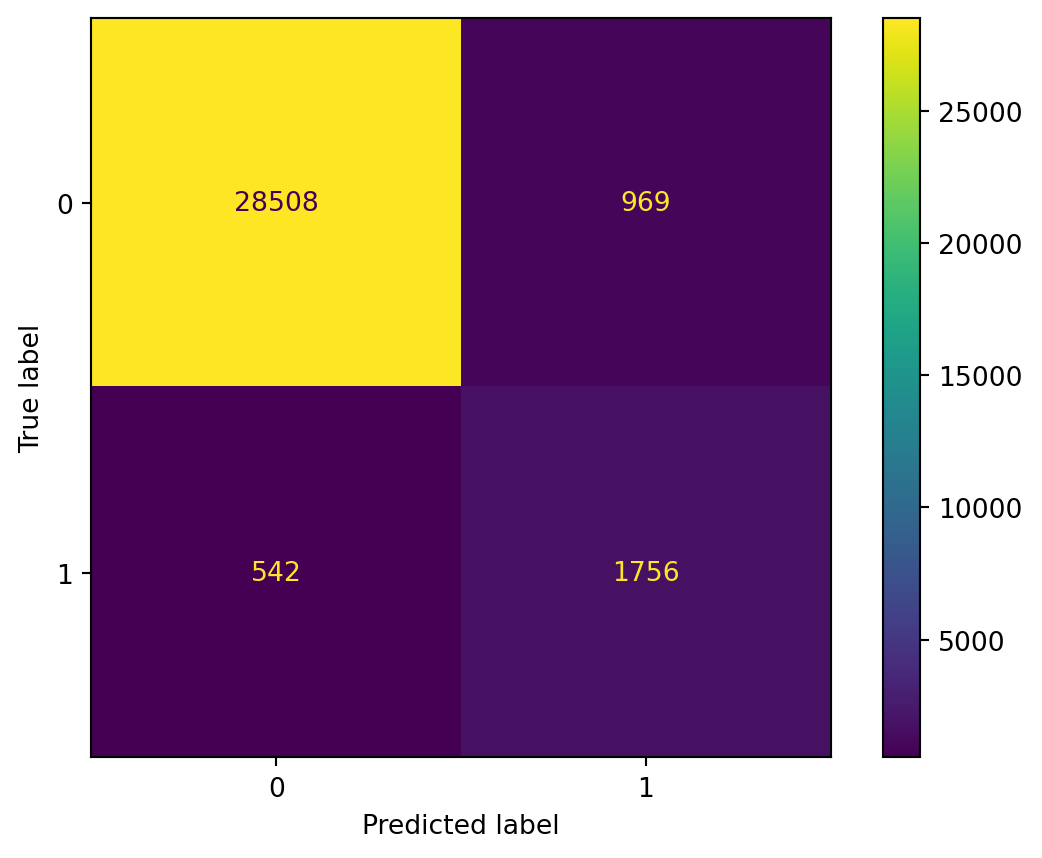
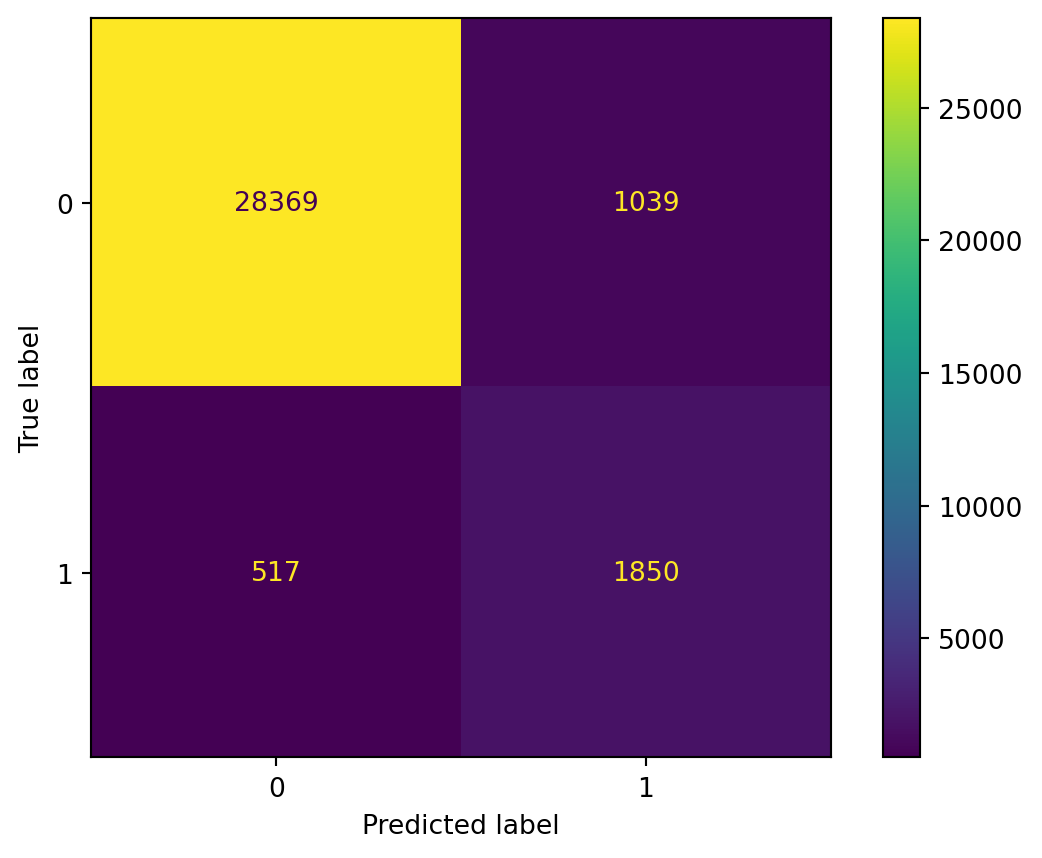
update_22

diff --git a/docs/LABORATORIO_2.html b/docs/LABORATORIO_2.html
@@ -218,7 +218,7 @@ pre > code.sourceCode > span > a:first-child::before { text-decoration: underlin
 
 <section id="importar-librerías" class="level1">
 <h1>Importar librerías</h1>
-<div id="5126de17" class="cell" data-execution_count="1">
+<div id="c7c6a34b" class="cell" data-execution_count="1">
 <div class="code-copy-outer-scaffold"><div class="sourceCode cell-code" id="cb1"><pre class="sourceCode python code-with-copy"><code class="sourceCode python"><span id="cb1-1"><a href="#cb1-1" aria-hidden="true" tabindex="-1"></a><span class="co"># ====== Importar librerías ======</span></span>
 <span id="cb1-2"><a href="#cb1-2" aria-hidden="true" tabindex="-1"></a><span class="im">import</span> re</span>
 <span id="cb1-3"><a href="#cb1-3" aria-hidden="true" tabindex="-1"></a><span class="im">import</span> unicodedata</span>
@@ -249,7 +249,7 @@ pre > code.sourceCode > span > a:first-child::before { text-decoration: underlin
 </section>
 <section id="cargar-data" class="level1">
 <h1>Cargar data</h1>
-<div id="8ede7a8e" class="cell" data-execution_count="2">
+<div id="8d2bc767" class="cell" data-execution_count="2">
 <div class="code-copy-outer-scaffold"><div class="sourceCode cell-code" id="cb2"><pre class="sourceCode python code-with-copy"><code class="sourceCode python"><span id="cb2-1"><a href="#cb2-1" aria-hidden="true" tabindex="-1"></a>tweets <span class="op">=</span> pd.read_csv(<span class="st">"data/tweets_totales_con_sentimiento_ml.csv"</span>, encoding<span class="op">=</span><span class="st">"utf-8"</span>)</span>
 <span id="cb2-2"><a href="#cb2-2" aria-hidden="true" tabindex="-1"></a></span>
 <span id="cb2-3"><a href="#cb2-3" aria-hidden="true" tabindex="-1"></a><span class="co"># Vista rápida</span></span>
@@ -434,11 +434,11 @@ dtype: object</code></pre>
 <p>Entender la estructura del dataset nos da una mejor idea de con que estamos lidiando</p>
 <section id="porcentaje-de-missing-values-por-columna" class="level3">
 <h3 class="anchored" data-anchor-id="porcentaje-de-missing-values-por-columna">Porcentaje de Missing Values por Columna</h3>
-<div id="43ff0990" class="cell" data-execution_count="3">
+<div id="404e19e5" class="cell" data-execution_count="3">
 <div class="code-copy-outer-scaffold"><div class="sourceCode cell-code" id="cb4"><pre class="sourceCode python code-with-copy"><code class="sourceCode python"><span id="cb4-1"><a href="#cb4-1" aria-hidden="true" tabindex="-1"></a><span class="co"># ====== Porcentaje de Missing Values por Columna ======</span></span>
 <span id="cb4-2"><a href="#cb4-2" aria-hidden="true" tabindex="-1"></a>nan_percent <span class="op">=</span> tweets.isna().mean().sort_values(ascending<span class="op">=</span><span class="va">False</span>).mul(<span class="dv">100</span>).<span class="bu">round</span>(<span class="dv">2</span>)</span>
 <span id="cb4-3"><a href="#cb4-3" aria-hidden="true" tabindex="-1"></a>nan_percent.head(<span class="dv">20</span>)</span></code></pre></div><button title="Copy to Clipboard" class="code-copy-button"><i class="bi"></i></button></div>
-<div class="cell-output cell-output-display" data-execution_count="26">
+<div class="cell-output cell-output-display" data-execution_count="50">
 <pre><code>hashtags            92.19
 replyTo              0.54
 mentions             0.22
@@ -465,7 +465,7 @@ dtype: float64</code></pre>
 </section>
 <section id="función-de-limpieza" class="level2">
 <h2 class="anchored" data-anchor-id="función-de-limpieza">Función de limpieza</h2>
-<div id="566875ac" class="cell" data-execution_count="4">
+<div id="a87baf46" class="cell" data-execution_count="4">
 <div class="code-copy-outer-scaffold"><div class="sourceCode cell-code" id="cb6"><pre class="sourceCode python code-with-copy"><code class="sourceCode python"><span id="cb6-1"><a href="#cb6-1" aria-hidden="true" tabindex="-1"></a><span class="kw">def</span> normalize_text(text: <span class="bu">str</span>) <span class="op">-&gt;</span> <span class="bu">str</span>:</span>
 <span id="cb6-2"><a href="#cb6-2" aria-hidden="true" tabindex="-1"></a>    text <span class="op">=</span> <span class="bu">str</span>(text)</span>
 <span id="cb6-3"><a href="#cb6-3" aria-hidden="true" tabindex="-1"></a>    text <span class="op">=</span> text.lower().strip()</span>
@@ -486,7 +486,7 @@ dtype: float64</code></pre>
 <span id="cb6-18"><a href="#cb6-18" aria-hidden="true" tabindex="-1"></a>tweets[<span class="st">"text_len"</span>]      <span class="op">=</span> tweets[<span class="st">"clean_text"</span>].<span class="bu">str</span>.<span class="bu">len</span>()</span>
 <span id="cb6-19"><a href="#cb6-19" aria-hidden="true" tabindex="-1"></a></span>
 <span id="cb6-20"><a href="#cb6-20" aria-hidden="true" tabindex="-1"></a>tweets[[<span class="st">"content"</span>,<span class="st">"clean_text"</span>,<span class="st">"num_urls"</span>,<span class="st">"num_mentions"</span>,<span class="st">"num_hashtags"</span>,<span class="st">"text_len"</span>]].head(<span class="dv">5</span>)</span></code></pre></div><button title="Copy to Clipboard" class="code-copy-button"><i class="bi"></i></button></div>
-<div class="cell-output cell-output-display" data-execution_count="27">
+<div class="cell-output cell-output-display" data-execution_count="51">
 <div>
 
 
@@ -557,7 +557,7 @@ dtype: float64</code></pre>
 </section>
 <section id="palabras-que-demuestran-apoyo-o-disgusto" class="level2">
 <h2 class="anchored" data-anchor-id="palabras-que-demuestran-apoyo-o-disgusto">Palabras que demuestran apoyo o disgusto</h2>
-<div id="86edbf68" class="cell" data-execution_count="5">
+<div id="7f39aaec" class="cell" data-execution_count="5">
 <div class="code-copy-outer-scaffold"><div class="sourceCode cell-code" id="cb7"><pre class="sourceCode python code-with-copy"><code class="sourceCode python"><span id="cb7-1"><a href="#cb7-1" aria-hidden="true" tabindex="-1"></a>lex_neg <span class="op">=</span> {</span>
 <span id="cb7-2"><a href="#cb7-2" aria-hidden="true" tabindex="-1"></a>    <span class="st">"asco"</span>,<span class="st">"basura"</span>,<span class="st">"corrupto"</span>,<span class="st">"estupido"</span>,<span class="st">"idiota"</span>,<span class="st">"ladron"</span>,<span class="st">"mentiroso"</span>,<span class="st">"odiar"</span>,<span class="st">"odio"</span>,</span>
 <span id="cb7-3"><a href="#cb7-3" aria-hidden="true" tabindex="-1"></a>    <span class="st">"imbecil"</span>,<span class="st">"tonto"</span>,<span class="st">"vomito"</span>,<span class="st">"repugnante"</span>,<span class="st">"asqueroso"</span>,<span class="st">"miserable"</span></span>
@@ -577,7 +577,7 @@ dtype: float64</code></pre>
 <span id="cb7-17"><a href="#cb7-17" aria-hidden="true" tabindex="-1"></a>tweets[<span class="st">"pos_count"</span>] <span class="op">=</span> tweets[<span class="st">"clean_text"</span>].<span class="bu">apply</span>(<span class="kw">lambda</span> t: count_lexicon_hits(t, lex_pos))</span>
 <span id="cb7-18"><a href="#cb7-18" aria-hidden="true" tabindex="-1"></a></span>
 <span id="cb7-19"><a href="#cb7-19" aria-hidden="true" tabindex="-1"></a>tweets[[<span class="st">"clean_text"</span>,<span class="st">"neg_count"</span>,<span class="st">"pos_count"</span>]].head(<span class="dv">5</span>)</span></code></pre></div><button title="Copy to Clipboard" class="code-copy-button"><i class="bi"></i></button></div>
-<div class="cell-output cell-output-display" data-execution_count="28">
+<div class="cell-output cell-output-display" data-execution_count="52">
 <div>
 
 
@@ -630,7 +630,7 @@ dtype: float64</code></pre>
 </section>
 <section id="creación-de-etiquetas-con-labelencoder" class="level2">
 <h2 class="anchored" data-anchor-id="creación-de-etiquetas-con-labelencoder">Creación de etiquetas con LabelEncoder</h2>
-<div id="a00a76ef" class="cell" data-execution_count="6">
+<div id="ce7e2d1c" class="cell" data-execution_count="6">
 <div class="code-copy-outer-scaffold"><div class="sourceCode cell-code" id="cb8"><pre class="sourceCode python code-with-copy"><code class="sourceCode python"><span id="cb8-1"><a href="#cb8-1" aria-hidden="true" tabindex="-1"></a><span class="co"># Columnas esperadas, se crean como 0 para evitar errores</span></span>
 <span id="cb8-2"><a href="#cb8-2" aria-hidden="true" tabindex="-1"></a>cols_flags <span class="op">=</span> [<span class="st">"isReply"</span>, <span class="st">"authorVerified"</span>, <span class="st">"has_profile_picture"</span>]</span>
 <span id="cb8-3"><a href="#cb8-3" aria-hidden="true" tabindex="-1"></a><span class="cf">for</span> c <span class="kw">in</span> cols_flags:</span>
@@ -644,7 +644,7 @@ dtype: float64</code></pre>
 <span id="cb8-11"><a href="#cb8-11" aria-hidden="true" tabindex="-1"></a>    tweets[<span class="ss">f"</span><span class="sc">{</span>c<span class="sc">}</span><span class="ss">_encoded"</span>] <span class="op">=</span> le.fit_transform(tweets[c].astype(<span class="bu">str</span>))</span>
 <span id="cb8-12"><a href="#cb8-12" aria-hidden="true" tabindex="-1"></a></span>
 <span id="cb8-13"><a href="#cb8-13" aria-hidden="true" tabindex="-1"></a>tweets[[<span class="ss">f"</span><span class="sc">{</span>c<span class="sc">}</span><span class="ss">_encoded"</span> <span class="cf">for</span> c <span class="kw">in</span> cols_flags]].head(<span class="dv">5</span>)</span></code></pre></div><button title="Copy to Clipboard" class="code-copy-button"><i class="bi"></i></button></div>
-<div class="cell-output cell-output-display" data-execution_count="29">
+<div class="cell-output cell-output-display" data-execution_count="53">
 <div>
 
 
@@ -697,7 +697,7 @@ dtype: float64</code></pre>
 </section>
 <section id="construcción-de-variable-target-basada-en-caractisticas-de-usuarios" class="level2">
 <h2 class="anchored" data-anchor-id="construcción-de-variable-target-basada-en-caractisticas-de-usuarios">Construcción de variable target basada en caractisticas de usuarios</h2>
-<div id="b90e258f" class="cell" data-execution_count="7">
+<div id="68801a40" class="cell" data-execution_count="7">
 <div class="code-copy-outer-scaffold"><div class="sourceCode cell-code" id="cb9"><pre class="sourceCode python code-with-copy"><code class="sourceCode python"><span id="cb9-1"><a href="#cb9-1" aria-hidden="true" tabindex="-1"></a><span class="co"># Asegurar columnas numéricas, si no existen, se crean con 0</span></span>
 <span id="cb9-2"><a href="#cb9-2" aria-hidden="true" tabindex="-1"></a>num_needed <span class="op">=</span> [<span class="st">"account_age_days"</span>, <span class="st">"time_response"</span>]</span>
 <span id="cb9-3"><a href="#cb9-3" aria-hidden="true" tabindex="-1"></a><span class="cf">for</span> c <span class="kw">in</span> num_needed:</span>
@@ -736,7 +736,7 @@ Name: count, dtype: int64</code></pre>
 </section>
 <section id="vectorización-de-texto" class="level2">
 <h2 class="anchored" data-anchor-id="vectorización-de-texto">Vectorización de texto</h2>
-<div id="c92ae3cf" class="cell" data-execution_count="8">
+<div id="7c209cfa" class="cell" data-execution_count="8">
 <div class="code-copy-outer-scaffold"><div class="sourceCode cell-code" id="cb11"><pre class="sourceCode python code-with-copy"><code class="sourceCode python"><span id="cb11-1"><a href="#cb11-1" aria-hidden="true" tabindex="-1"></a><span class="co"># Vectorizer sobre 'clean_text' (español)</span></span>
 <span id="cb11-2"><a href="#cb11-2" aria-hidden="true" tabindex="-1"></a><span class="co"># vectorizer = CountVectorizer(stop_words=stop_es) </span></span>
 <span id="cb11-3"><a href="#cb11-3" aria-hidden="true" tabindex="-1"></a>vectorizer <span class="op">=</span> TfidfVectorizer(stop_words<span class="op">=</span>stop_es)</span>
@@ -756,13 +756,13 @@ Ejemplo de vocab: ['aa' 'aaa' 'aaaa' 'aaaaa' 'aaaaaa' 'aaaaaaa' 'aaaaaaaa' 'aaaa
 </section>
 <section id="one-hot-encoder-para-variables-categoricas-método-de-autodetección" class="level2">
 <h2 class="anchored" data-anchor-id="one-hot-encoder-para-variables-categoricas-método-de-autodetección">One hot encoder para variables categoricas (método de autodetección)</h2>
-<div id="5915142e" class="cell" data-execution_count="9">
+<div id="4ff5b842" class="cell" data-execution_count="9">
 <div class="code-copy-outer-scaffold"><div class="sourceCode cell-code" id="cb13"><pre class="sourceCode python code-with-copy"><code class="sourceCode python"><span id="cb13-1"><a href="#cb13-1" aria-hidden="true" tabindex="-1"></a><span class="co"># Detectar automáticamente columnas object para One-Hot (excluyendo 'content'/'clean_text')</span></span>
 <span id="cb13-2"><a href="#cb13-2" aria-hidden="true" tabindex="-1"></a>obj_cols <span class="op">=</span> [c <span class="cf">for</span> c <span class="kw">in</span> tweets.select_dtypes(include<span class="op">=</span>[<span class="st">"object"</span>]).columns</span>
 <span id="cb13-3"><a href="#cb13-3" aria-hidden="true" tabindex="-1"></a>            <span class="cf">if</span> c <span class="kw">not</span> <span class="kw">in</span> {<span class="st">"content"</span>,<span class="st">"clean_text"</span>}]</span>
 <span id="cb13-4"><a href="#cb13-4" aria-hidden="true" tabindex="-1"></a></span>
 <span id="cb13-5"><a href="#cb13-5" aria-hidden="true" tabindex="-1"></a>obj_cols[:<span class="dv">10</span>]</span></code></pre></div><button title="Copy to Clipboard" class="code-copy-button"><i class="bi"></i></button></div>
-<div class="cell-output cell-output-display" data-execution_count="32">
+<div class="cell-output cell-output-display" data-execution_count="56">
 <pre><code>['tweetUrl',
  'replyTo',
  'createdAt',
@@ -778,7 +778,7 @@ Ejemplo de vocab: ['aa' 'aaa' 'aaaa' 'aaaaa' 'aaaaaa' 'aaaaaaa' 'aaaaaaaa' 'aaaa
 </section>
 <section id="ensamble-númericas-label-ecoder-categóticas-one-hot-encoder-text-columntransformer" class="level2">
 <h2 class="anchored" data-anchor-id="ensamble-númericas-label-ecoder-categóticas-one-hot-encoder-text-columntransformer">Ensamble: númericas (Label Ecoder) + categóticas (One-hot-encoder) + text (columntransformer)</h2>
-<div id="ded0da99" class="cell" data-execution_count="10">
+<div id="ac7b54ca" class="cell" data-execution_count="10">
 <div class="code-copy-outer-scaffold"><div class="sourceCode cell-code" id="cb15"><pre class="sourceCode python code-with-copy"><code class="sourceCode python"><span id="cb15-1"><a href="#cb15-1" aria-hidden="true" tabindex="-1"></a><span class="co"># Numéricas explícitas (puedes añadir/quitar)</span></span>
 <span id="cb15-2"><a href="#cb15-2" aria-hidden="true" tabindex="-1"></a>num_cols <span class="op">=</span> [</span>
 <span id="cb15-3"><a href="#cb15-3" aria-hidden="true" tabindex="-1"></a>    <span class="st">"account_age_days"</span>,<span class="st">"time_response"</span>,<span class="st">"num_urls"</span>,<span class="st">"num_mentions"</span>,<span class="st">"num_hashtags"</span>,<span class="st">"text_len"</span>,</span>
@@ -821,47 +821,37 @@ Ejemplo de vocab: ['aa' 'aaa' 'aaaa' 'aaaaa' 'aaaaaa' 'aaaaaaa' 'aaaaaaaa' 'aaaa
 <section id="split-división-entrenamiento-y-evaluación" class="level2">
 <h2 class="anchored" data-anchor-id="split-división-entrenamiento-y-evaluación">Split (división), entrenamiento y evaluación</h2>
 <p>Aprende de los tweets (vocabulario) y del ser caso elimina las stop-words</p>
-<div id="b4ac6f15" class="cell" data-execution_count="11">
-<div class="code-copy-outer-scaffold"><div class="sourceCode cell-code" id="cb17"><pre class="sourceCode python code-with-copy"><code class="sourceCode python"><span id="cb17-1"><a href="#cb17-1" aria-hidden="true" tabindex="-1"></a><span class="co"># Si hay 1 sola clase, relajamos umbral de bots para forzar 2 clases (safeguard)</span></span>
-<span id="cb17-2"><a href="#cb17-2" aria-hidden="true" tabindex="-1"></a><span class="cf">if</span> y.nunique() <span class="op">&lt;</span> <span class="dv">2</span>:</span>
-<span id="cb17-3"><a href="#cb17-3" aria-hidden="true" tabindex="-1"></a>    <span class="bu">print</span>(<span class="st">" !!! 'bots' tiene una sola clase con el umbral actual. Bajando el umbral a &gt;=2 señales."</span>)</span>
-<span id="cb17-4"><a href="#cb17-4" aria-hidden="true" tabindex="-1"></a>    tweets[<span class="st">"bots"</span>] <span class="op">=</span> (score <span class="op">&gt;=</span> <span class="dv">2</span>).astype(<span class="bu">int</span>)</span>
-<span id="cb17-5"><a href="#cb17-5" aria-hidden="true" tabindex="-1"></a>    y <span class="op">=</span> tweets[<span class="st">"bots"</span>].astype(<span class="bu">int</span>)</span>
-<span id="cb17-6"><a href="#cb17-6" aria-hidden="true" tabindex="-1"></a>    <span class="bu">print</span>(<span class="st">"Nuevas clases en y:"</span>, <span class="bu">dict</span>(y.value_counts()))</span>
+<div id="9888f952" class="cell" data-execution_count="11">
+<div class="code-copy-outer-scaffold"><div class="sourceCode cell-code" id="cb17"><pre class="sourceCode python code-with-copy"><code class="sourceCode python"><span id="cb17-1"><a href="#cb17-1" aria-hidden="true" tabindex="-1"></a>X_train, X_test, y_train, y_test <span class="op">=</span> train_test_split(</span>
+<span id="cb17-2"><a href="#cb17-2" aria-hidden="true" tabindex="-1"></a>    X, y, test_size<span class="op">=</span><span class="fl">0.2</span>, random_state<span class="op">=</span><span class="dv">42</span></span>
+<span id="cb17-3"><a href="#cb17-3" aria-hidden="true" tabindex="-1"></a>)</span>
+<span id="cb17-4"><a href="#cb17-4" aria-hidden="true" tabindex="-1"></a></span>
+<span id="cb17-5"><a href="#cb17-5" aria-hidden="true" tabindex="-1"></a>pipe.fit(X_train, y_train)</span>
+<span id="cb17-6"><a href="#cb17-6" aria-hidden="true" tabindex="-1"></a>y_pred <span class="op">=</span> pipe.predict(X_test)</span>
 <span id="cb17-7"><a href="#cb17-7" aria-hidden="true" tabindex="-1"></a></span>
-<span id="cb17-8"><a href="#cb17-8" aria-hidden="true" tabindex="-1"></a><span class="co"># Estratificar solo si hay 2 clases</span></span>
-<span id="cb17-9"><a href="#cb17-9" aria-hidden="true" tabindex="-1"></a>stratify_opt <span class="op">=</span> y <span class="cf">if</span> y.nunique() <span class="op">&gt;</span> <span class="dv">1</span> <span class="cf">else</span> <span class="va">None</span></span>
-<span id="cb17-10"><a href="#cb17-10" aria-hidden="true" tabindex="-1"></a></span>
-<span id="cb17-11"><a href="#cb17-11" aria-hidden="true" tabindex="-1"></a>X_train, X_test, y_train, y_test <span class="op">=</span> train_test_split(</span>
-<span id="cb17-12"><a href="#cb17-12" aria-hidden="true" tabindex="-1"></a>    X, y, test_size<span class="op">=</span><span class="fl">0.2</span>, random_state<span class="op">=</span><span class="dv">42</span>, stratify<span class="op">=</span>stratify_opt</span>
-<span id="cb17-13"><a href="#cb17-13" aria-hidden="true" tabindex="-1"></a>)</span>
-<span id="cb17-14"><a href="#cb17-14" aria-hidden="true" tabindex="-1"></a></span>
-<span id="cb17-15"><a href="#cb17-15" aria-hidden="true" tabindex="-1"></a>pipe.fit(X_train, y_train)</span>
-<span id="cb17-16"><a href="#cb17-16" aria-hidden="true" tabindex="-1"></a>y_pred <span class="op">=</span> pipe.predict(X_test)</span>
+<span id="cb17-8"><a href="#cb17-8" aria-hidden="true" tabindex="-1"></a>acc  <span class="op">=</span> accuracy_score(y_test, y_pred)</span>
+<span id="cb17-9"><a href="#cb17-9" aria-hidden="true" tabindex="-1"></a>prec <span class="op">=</span> precision_score(y_test, y_pred, zero_division<span class="op">=</span><span class="dv">0</span>)</span>
+<span id="cb17-10"><a href="#cb17-10" aria-hidden="true" tabindex="-1"></a>rec  <span class="op">=</span> recall_score(y_test, y_pred, zero_division<span class="op">=</span><span class="dv">0</span>)</span>
+<span id="cb17-11"><a href="#cb17-11" aria-hidden="true" tabindex="-1"></a>f1   <span class="op">=</span> f1_score(y_test, y_pred, zero_division<span class="op">=</span><span class="dv">0</span>)</span>
+<span id="cb17-12"><a href="#cb17-12" aria-hidden="true" tabindex="-1"></a></span>
+<span id="cb17-13"><a href="#cb17-13" aria-hidden="true" tabindex="-1"></a><span class="bu">print</span>(<span class="ss">f"accuracy:  </span><span class="sc">{</span>acc<span class="sc">:.3f}</span><span class="ss">"</span>)</span>
+<span id="cb17-14"><a href="#cb17-14" aria-hidden="true" tabindex="-1"></a><span class="bu">print</span>(<span class="ss">f"precision: </span><span class="sc">{</span>prec<span class="sc">:.3f}</span><span class="ss">"</span>)</span>
+<span id="cb17-15"><a href="#cb17-15" aria-hidden="true" tabindex="-1"></a><span class="bu">print</span>(<span class="ss">f"recall:    </span><span class="sc">{</span>rec<span class="sc">:.3f}</span><span class="ss">"</span>)</span>
+<span id="cb17-16"><a href="#cb17-16" aria-hidden="true" tabindex="-1"></a><span class="bu">print</span>(<span class="ss">f"f1:        </span><span class="sc">{</span>f1<span class="sc">:.3f}</span><span class="ss">"</span>)</span>
 <span id="cb17-17"><a href="#cb17-17" aria-hidden="true" tabindex="-1"></a></span>
-<span id="cb17-18"><a href="#cb17-18" aria-hidden="true" tabindex="-1"></a>acc  <span class="op">=</span> accuracy_score(y_test, y_pred)</span>
-<span id="cb17-19"><a href="#cb17-19" aria-hidden="true" tabindex="-1"></a>prec <span class="op">=</span> precision_score(y_test, y_pred, zero_division<span class="op">=</span><span class="dv">0</span>)</span>
-<span id="cb17-20"><a href="#cb17-20" aria-hidden="true" tabindex="-1"></a>rec  <span class="op">=</span> recall_score(y_test, y_pred, zero_division<span class="op">=</span><span class="dv">0</span>)</span>
-<span id="cb17-21"><a href="#cb17-21" aria-hidden="true" tabindex="-1"></a>f1   <span class="op">=</span> f1_score(y_test, y_pred, zero_division<span class="op">=</span><span class="dv">0</span>)</span>
-<span id="cb17-22"><a href="#cb17-22" aria-hidden="true" tabindex="-1"></a></span>
-<span id="cb17-23"><a href="#cb17-23" aria-hidden="true" tabindex="-1"></a><span class="bu">print</span>(<span class="ss">f"accuracy:  </span><span class="sc">{</span>acc<span class="sc">:.3f}</span><span class="ss">"</span>)</span>
-<span id="cb17-24"><a href="#cb17-24" aria-hidden="true" tabindex="-1"></a><span class="bu">print</span>(<span class="ss">f"precision: </span><span class="sc">{</span>prec<span class="sc">:.3f}</span><span class="ss">"</span>)</span>
-<span id="cb17-25"><a href="#cb17-25" aria-hidden="true" tabindex="-1"></a><span class="bu">print</span>(<span class="ss">f"recall:    </span><span class="sc">{</span>rec<span class="sc">:.3f}</span><span class="ss">"</span>)</span>
-<span id="cb17-26"><a href="#cb17-26" aria-hidden="true" tabindex="-1"></a><span class="bu">print</span>(<span class="ss">f"f1:        </span><span class="sc">{</span>f1<span class="sc">:.3f}</span><span class="ss">"</span>)</span>
-<span id="cb17-27"><a href="#cb17-27" aria-hidden="true" tabindex="-1"></a></span>
-<span id="cb17-28"><a href="#cb17-28" aria-hidden="true" tabindex="-1"></a><span class="bu">print</span>(<span class="st">"</span><span class="ch">\n</span><span class="st">Classification report:"</span>)</span>
-<span id="cb17-29"><a href="#cb17-29" aria-hidden="true" tabindex="-1"></a><span class="bu">print</span>(classification_report(y_test, y_pred, zero_division<span class="op">=</span><span class="dv">0</span>))</span></code></pre></div><button title="Copy to Clipboard" class="code-copy-button"><i class="bi"></i></button></div>
+<span id="cb17-18"><a href="#cb17-18" aria-hidden="true" tabindex="-1"></a><span class="bu">print</span>(<span class="st">"</span><span class="ch">\n</span><span class="st">Classification report:"</span>)</span>
+<span id="cb17-19"><a href="#cb17-19" aria-hidden="true" tabindex="-1"></a><span class="bu">print</span>(classification_report(y_test, y_pred, zero_division<span class="op">=</span><span class="dv">0</span>))</span></code></pre></div><button title="Copy to Clipboard" class="code-copy-button"><i class="bi"></i></button></div>
 <div class="cell-output cell-output-stdout">
-<pre><code>accuracy:  0.952
-precision: 0.644
-recall:    0.764
-f1:        0.699
+<pre><code>accuracy:  0.951
+precision: 0.640
+recall:    0.782
+f1:        0.704
 
 Classification report:
               precision    recall  f1-score   support
 
-           0       0.98      0.97      0.97     29477
-           1       0.64      0.76      0.70      2298
+           0       0.98      0.96      0.97     29408
+           1       0.64      0.78      0.70      2367
 
     accuracy                           0.95     31775
    macro avg       0.81      0.87      0.84     31775
@@ -872,7 +862,7 @@ weighted avg       0.96      0.95      0.95     31775
 </section>
 <section id="matriz-de-confusión" class="level2">
 <h2 class="anchored" data-anchor-id="matriz-de-confusión">Matriz de confusión</h2>
-<div id="ba06fa2a" class="cell" data-execution_count="12">
+<div id="1903ae90" class="cell" data-execution_count="12">
 <div class="code-copy-outer-scaffold"><div class="sourceCode cell-code" id="cb19"><pre class="sourceCode python code-with-copy"><code class="sourceCode python"><span id="cb19-1"><a href="#cb19-1" aria-hidden="true" tabindex="-1"></a>ConfusionMatrixDisplay.from_predictions(y_test, y_pred)</span></code></pre></div><button title="Copy to Clipboard" class="code-copy-button"><i class="bi"></i></button></div>
 <div class="cell-output cell-output-display">
 <div>
@@ -885,7 +875,7 @@ weighted avg       0.96      0.95      0.95     31775
 </section>
 <section id="inspección-palabras-más-comunes-tf-idf" class="level2">
 <h2 class="anchored" data-anchor-id="inspección-palabras-más-comunes-tf-idf">Inspección: palabras más comunes (TF-IDF)</h2>
-<div id="abe1632e" class="cell" data-execution_count="13">
+<div id="28cfb7f1" class="cell" data-execution_count="13">
 <div class="code-copy-outer-scaffold"><div class="sourceCode cell-code" id="cb20"><pre class="sourceCode python code-with-copy"><code class="sourceCode python"><span id="cb20-1"><a href="#cb20-1" aria-hidden="true" tabindex="-1"></a><span class="co"># Top términos por TF-IDF medio (en el train)</span></span>
 <span id="cb20-2"><a href="#cb20-2" aria-hidden="true" tabindex="-1"></a><span class="im">from</span> scipy.sparse <span class="im">import</span> issparse</span>
 <span id="cb20-3"><a href="#cb20-3" aria-hidden="true" tabindex="-1"></a></span>
@@ -901,7 +891,7 @@ weighted avg       0.96      0.95      0.95     31775
 <span id="cb20-13"><a href="#cb20-13" aria-hidden="true" tabindex="-1"></a>top_idx <span class="op">=</span> np.argsort(col_means)[::<span class="op">-</span><span class="dv">1</span>][:<span class="dv">20</span>]</span>
 <span id="cb20-14"><a href="#cb20-14" aria-hidden="true" tabindex="-1"></a>top_terms <span class="op">=</span> [(idf_vocab[i], <span class="bu">float</span>(col_means[i])) <span class="cf">for</span> i <span class="kw">in</span> top_idx]</span>
 <span id="cb20-15"><a href="#cb20-15" aria-hidden="true" tabindex="-1"></a>pd.DataFrame(top_terms, columns<span class="op">=</span>[<span class="st">"term"</span>,<span class="st">"mean_tfidf"</span>])</span></code></pre></div><button title="Copy to Clipboard" class="code-copy-button"><i class="bi"></i></button></div>
-<div class="cell-output cell-output-display" data-execution_count="36">
+<div class="cell-output cell-output-display" data-execution_count="60">
 <div>
 
 
@@ -917,102 +907,102 @@ weighted avg       0.96      0.95      0.95     31775
 <tr class="odd">
 <th data-quarto-table-cell-role="th">0</th>
 <td>luisa</td>
-<td>0.017463</td>
+<td>0.017571</td>
 </tr>
 <tr class="even">
 <th data-quarto-table-cell-role="th">1</th>
 <td>presidente</td>
-<td>0.013639</td>
+<td>0.013736</td>
 </tr>
 <tr class="odd">
 <th data-quarto-table-cell-role="th">2</th>
 <td>si</td>
-<td>0.013565</td>
+<td>0.013674</td>
 </tr>
 <tr class="even">
 <th data-quarto-table-cell-role="th">3</th>
 <td>noboa</td>
-<td>0.013282</td>
+<td>0.013436</td>
 </tr>
 <tr class="odd">
 <th data-quarto-table-cell-role="th">4</th>
 <td>est</td>
-<td>0.012355</td>
+<td>0.012366</td>
 </tr>
 <tr class="even">
 <th data-quarto-table-cell-role="th">5</th>
 <td>ecuador</td>
-<td>0.010876</td>
+<td>0.010899</td>
 </tr>
 <tr class="odd">
 <th data-quarto-table-cell-role="th">6</th>
 <td>pa</td>
-<td>0.009257</td>
+<td>0.009313</td>
 </tr>
 <tr class="even">
 <th data-quarto-table-cell-role="th">7</th>
 <td>presidenta</td>
-<td>0.009170</td>
+<td>0.009178</td>
 </tr>
 <tr class="odd">
 <th data-quarto-table-cell-role="th">8</th>
 <td>ser</td>
-<td>0.008616</td>
+<td>0.008642</td>
 </tr>
 <tr class="even">
 <th data-quarto-table-cell-role="th">9</th>
 <td>as</td>
-<td>0.007794</td>
+<td>0.007840</td>
 </tr>
 <tr class="odd">
 <th data-quarto-table-cell-role="th">10</th>
 <td>solo</td>
-<td>0.007455</td>
+<td>0.007504</td>
 </tr>
 <tr class="even">
 <th data-quarto-table-cell-role="th">11</th>
 <td>rana</td>
-<td>0.007120</td>
+<td>0.006959</td>
 </tr>
 <tr class="odd">
 <th data-quarto-table-cell-role="th">12</th>
 <td>nunca</td>
-<td>0.006444</td>
+<td>0.006466</td>
 </tr>
 <tr class="even">
 <th data-quarto-table-cell-role="th">13</th>
 <td>vamos</td>
-<td>0.006277</td>
+<td>0.006268</td>
 </tr>
 <tr class="odd">
 <th data-quarto-table-cell-role="th">14</th>
-<td>qu</td>
-<td>0.005890</td>
+<td>bien</td>
+<td>0.005931</td>
 </tr>
 <tr class="even">
 <th data-quarto-table-cell-role="th">15</th>
-<td>bien</td>
-<td>0.005888</td>
+<td>qu</td>
+<td>0.005899</td>
 </tr>
 <tr class="odd">
 <th data-quarto-table-cell-role="th">16</th>
 <td>pueblo</td>
-<td>0.005597</td>
+<td>0.005612</td>
 </tr>
 <tr class="even">
 <th data-quarto-table-cell-role="th">17</th>
-<td>mejor</td>
-<td>0.005172</td>
+<td>correa</td>
+<td>0.005187</td>
 </tr>
 <tr class="odd">
 <th data-quarto-table-cell-role="th">18</th>
-<td>correa</td>
-<td>0.005143</td>
+<td>mejor</td>
+<td>0.005187</td>
 </tr>
 <tr class="even">
 <th data-quarto-table-cell-role="th">19</th>
-<td>rc</td>
-<td>0.005099</td>
+<td>gente</td>
+<td>0.005059</td>
 </tr>
 </tbody>
 </table>
